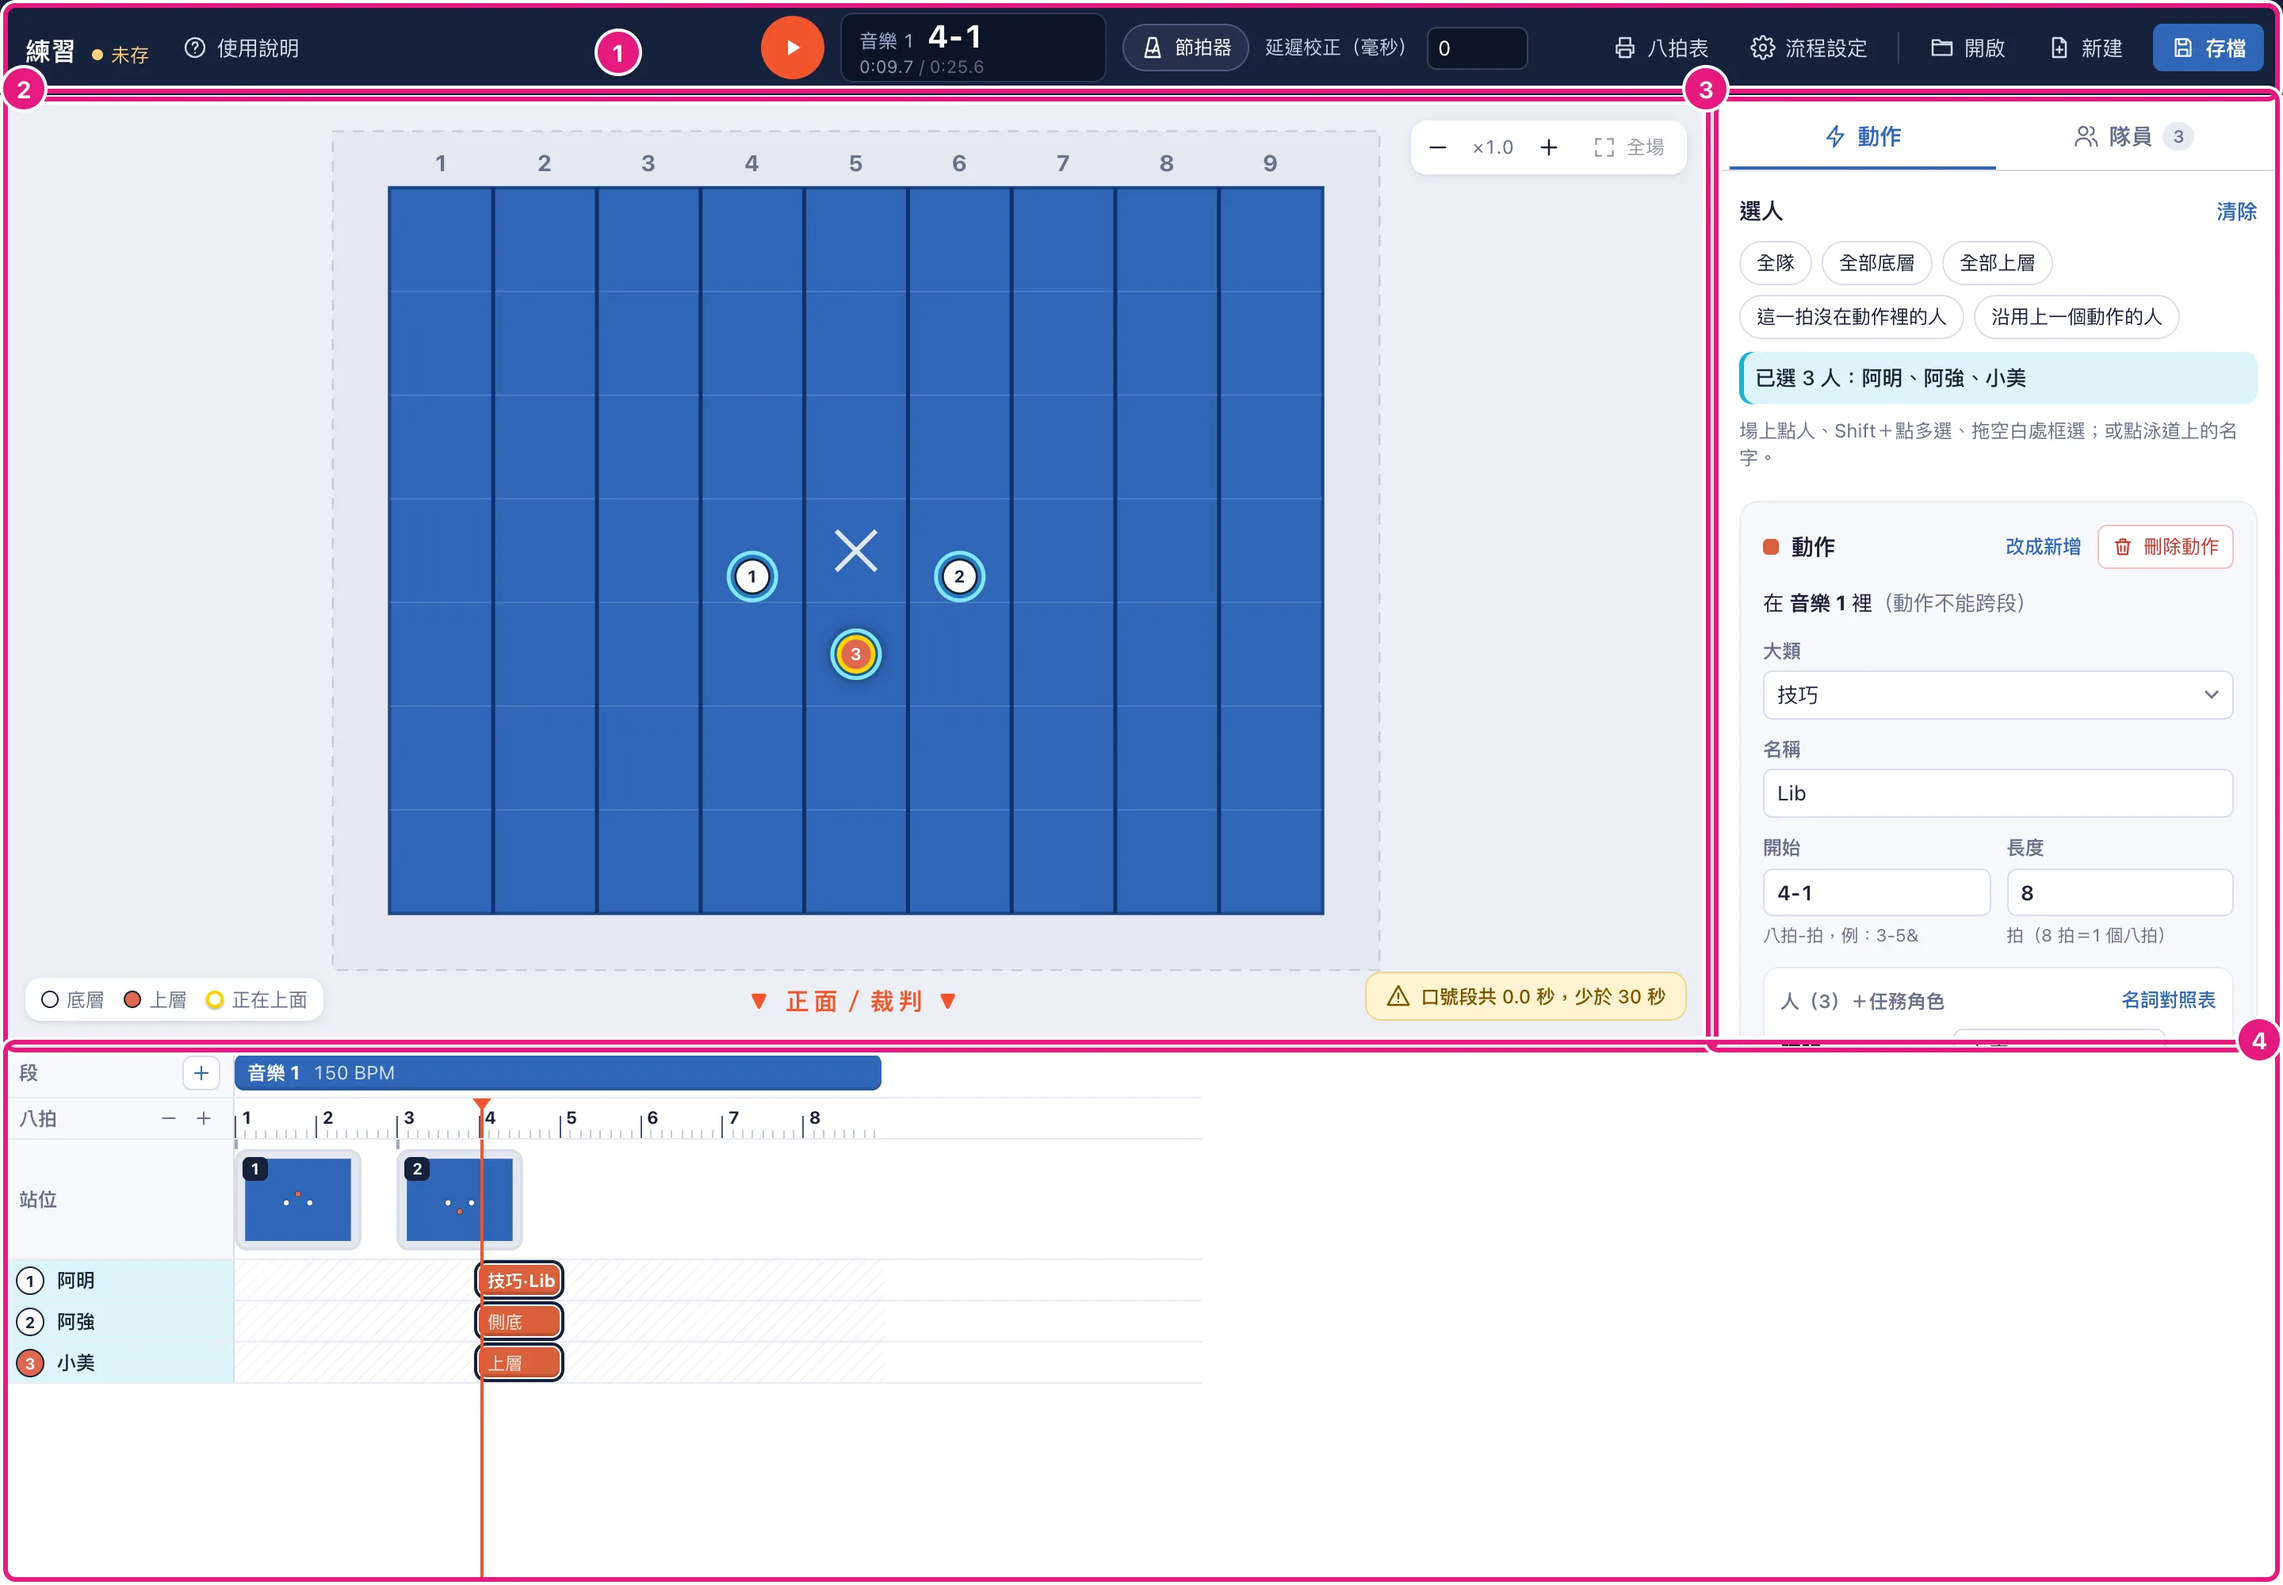
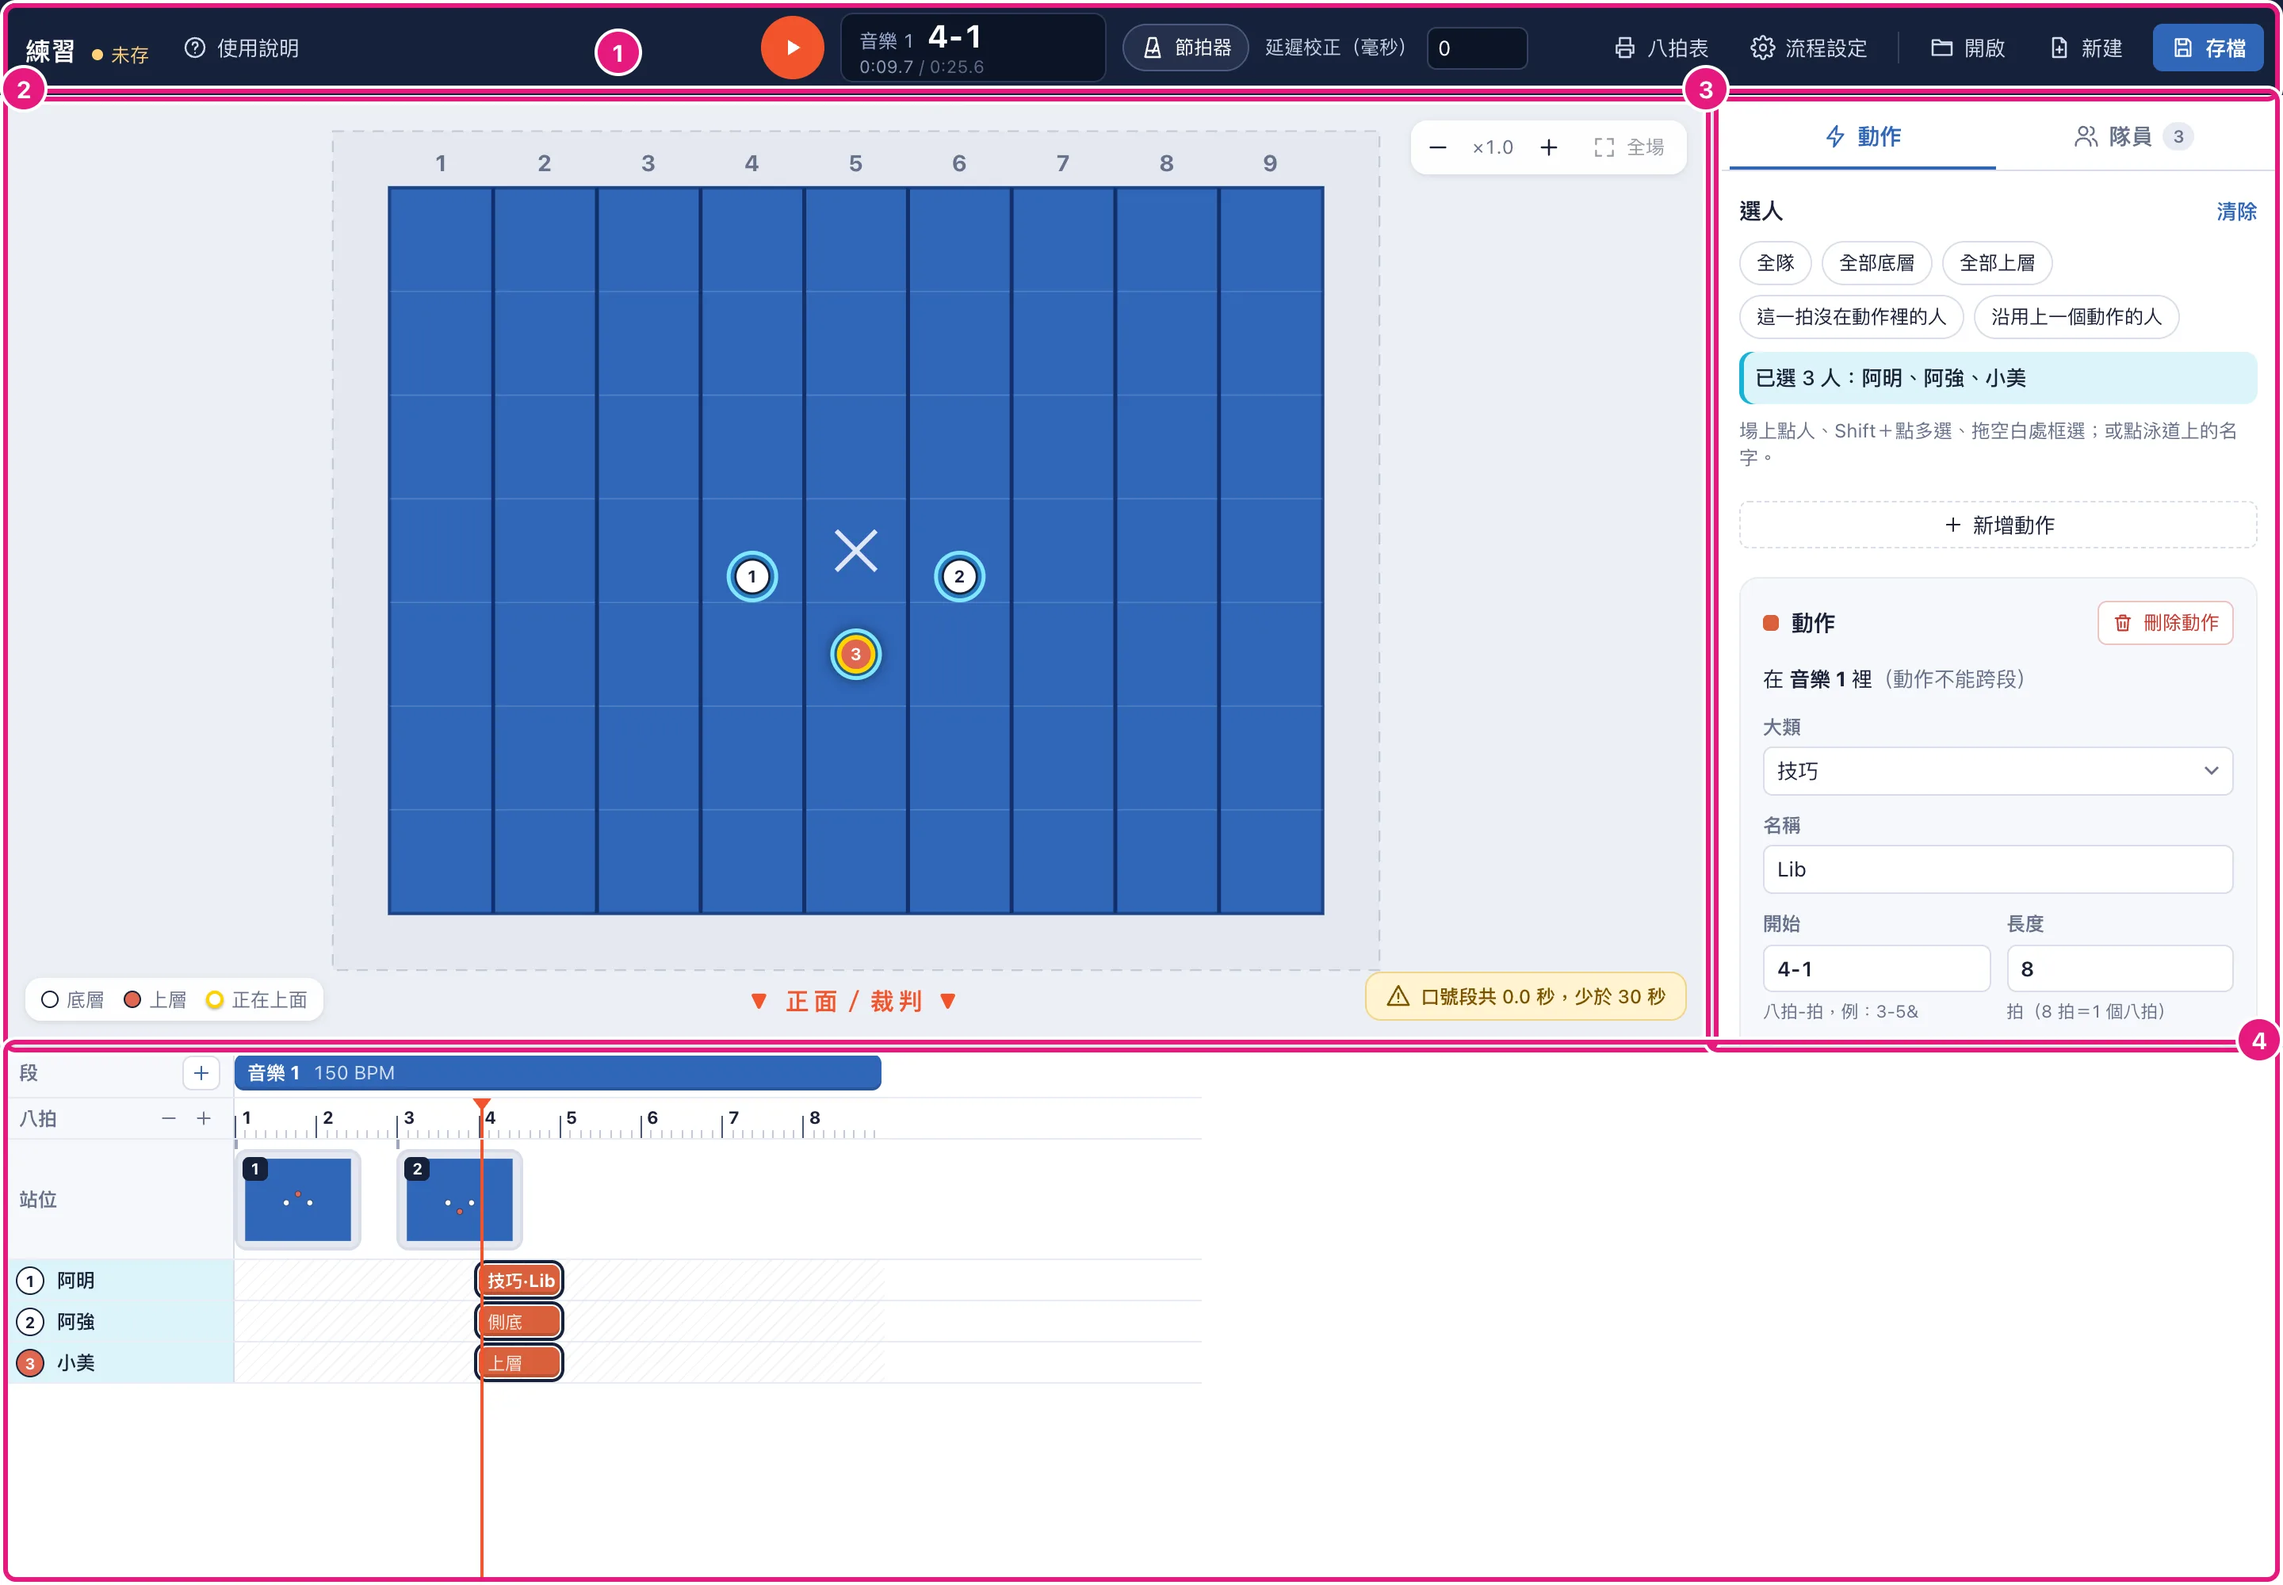
Move 改成新增 out of the action card as a ＋ 新增動作 button
Inside the card it read like an action on the selected action. It just
deselects and returns the form to add mode, so it now sits above the card
and says what the user wants to do. Guide text and screenshot updated.

Changed region(s): [[0.75, 0.341, 0.875, 0.651], [0.875, 0.527, 0.9688, 0.651], [0.875, 0.31, 0.9688, 0.403]]

diff --git a/src/routes/guide/+page.svelte b/src/routes/guide/+page.svelte
@@ -498,7 +498,7 @@
 					</li>
 					<li><b>給任務角色：</b>在每個人旁邊的下拉選單選，例如主底、側底、上層、保護。意思見 <a href="#words">2.1</a>，或按「名詞對照表」。</li>
 					<li><b>備註：</b>有要提醒的就寫。</li>
-					<li>按「新增動作」。泳道上每個人都多一條色條；動作表單變成這個動作的內容（標題寫「動作」），可以接著改。要再新增別的動作，按「改成新增」。</li>
+					<li>按「新增動作」。泳道上每個人都多一條色條；動作表單變成這個動作的內容（標題寫「動作」），可以接著改。要再新增別的動作，按表單上面的「＋ 新增動作」。</li>
 				</ol>
 				<p class="note">
 					做不出來時，動作表單下面會寫原因。最常見的：「動作不能跨段，要跨就拆成兩個」「一個動作至少要有 1 個人」「某某 同一時間已經在『…』裡」。照原因改就好。
@@ -508,7 +508,7 @@
 				<ol class="steps">
 					<li>在泳道上點那個動作的色條。動作表單換成那個動作的內容。</li>
 					<li>直接改任何欄位，改了馬上生效（不用按儲存）。</li>
-					<li>改完要新增別的動作，按「改成新增」。</li>
+					<li>改完要新增別的動作，按表單上面的「＋ 新增動作」（或按 Esc）。</li>
 				</ol>
 
 				<h4>在泳道上拖動作</h4>

diff --git a/src/lib/components/ActionForm.svelte b/src/lib/components/ActionForm.svelte
@@ -230,6 +230,11 @@
 	const nameOf = (id: string) => memberName(flow, id);
 </script>
 
+<!-- 放在卡片外面：放裡面會看成是對這個動作做事 -->
+{#if action}
+	<button type="button" class="new" onclick={() => onselect(null)}><Icon name="plus" size={14} />新增動作</button>
+{/if}
+
 <section class="action-form" class:editing={action} style:--cat={CATEGORY_COLORS[draft.category]}>
 	<header>
 		<h3>
@@ -237,7 +242,6 @@
 			{action ? '動作' : '在播放頭新增動作'}
 		</h3>
 		{#if action}
-			<button type="button" class="link back" onclick={() => onselect(null)}>改成新增</button>
 			<button type="button" class="danger" onclick={remove}><Icon name="trash" size={14} />刪除動作</button>
 		{/if}
 	</header>
@@ -365,8 +369,10 @@
 		border-radius: 3px;
 		background: var(--cat);
 	}
-	.back {
-		font-size: 12px;
+	.new {
+		width: 100%;
+		justify-content: center;
+		border-style: dashed;
 	}
 	.danger {
 		padding: 3px 8px;

diff --git a/src/lib/components/ActionForm.svelte.test.ts b/src/lib/components/ActionForm.svelte.test.ts
@@ -128,6 +128,14 @@ describe('動作表單：改選到的動作', () => {
 		expect(onchange.mock.calls[0][0].actions.map((a: { id: string }) => a.id)).toEqual(['x1']);
 		expect(onselect).toHaveBeenCalledWith(null);
 	});
+
+	it('卡片外面的「＋ 新增動作」取消選取，回到新增', async () => {
+		const { onselect } = setup(withTwo(), 'x1');
+		const button = screen.getByRole('button', { name: '新增動作' });
+		expect(button.closest('section')).toBeNull();
+		await fireEvent.click(button);
+		expect(onselect).toHaveBeenCalledWith(null);
+	});
 });
 
 describe('動作表單：選人', () => {
